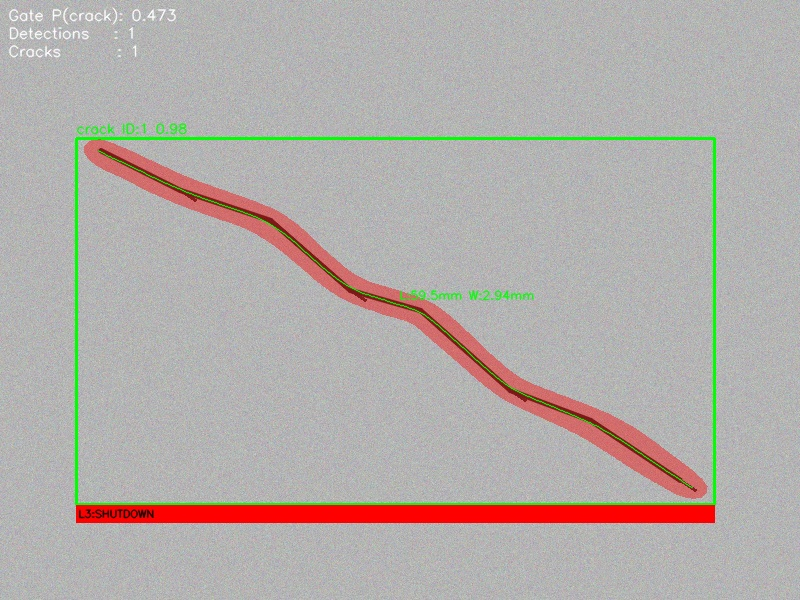
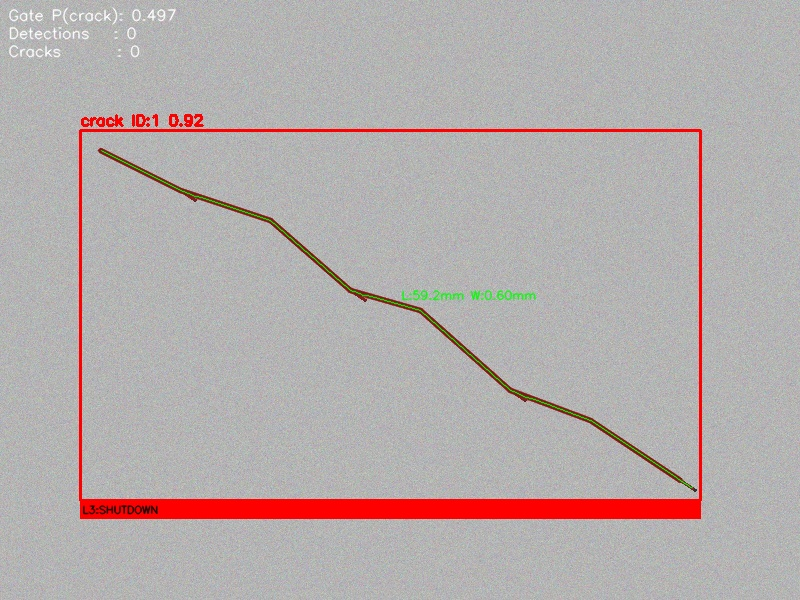
updated all code for pth file

Changed region(s): [[0.0625, 0.18, 0.9062, 0.9], [0.1562, 0.03, 0.1875, 0.09], [0.1875, 0.0, 0.2188, 0.03]]

diff --git a/main.py b/main.py
@@ -232,9 +232,9 @@ def main():
         print("\n--- Pipeline Execution Metadata ---")
         print(json.dumps(metadata, indent=2))
         
-        print("\n--- Severity Alerting Log (alerts.log) ---")
-        if os.path.exists("alerts.log"):
-            with open("alerts.log", "r") as f:
+        print(f"\n--- Severity Alerting Log ({pipeline.alerts_log}) ---")
+        if os.path.exists(pipeline.alerts_log):
+            with open(pipeline.alerts_log, "r") as f:
                 print(f.read())
             
 if __name__ == "__main__":

diff --git a/src/inference/pipeline.py b/src/inference/pipeline.py
@@ -133,7 +133,7 @@ class CrackDetectionPipeline:
         self.min_area_px = geom_cfg.get("min_area_px", 50)
         self.sample_interval = geom_cfg.get("sample_interval", 5)
         
-        self.alerts_log = alerts_log if alerts_log is not None else p_cfg.get("alerts_log", "alerts.log")
+        self.alerts_log = resolve_path(alerts_log if alerts_log is not None else p_cfg.get("alerts_log", "log/alerts.log"))
         self.save_snapshots = p_cfg.get("save_snapshots", True)
         self.alerted_track_ids = set()
         
@@ -304,6 +304,9 @@ class CrackDetectionPipeline:
         
         # Append log
         try:
+            log_dir = os.path.dirname(self.alerts_log)
+            if log_dir:
+                os.makedirs(log_dir, exist_ok=True)
             with open(self.alerts_log, "a") as f:
                 f.write(log_line)
         except Exception as e:

diff --git a/README.md b/README.md
@@ -124,6 +124,9 @@ crack_detection_oilgas/
 │   ├── json/                   # Event-triggered structured alert reports (.json)
 │   └── snapshot/               # Event-triggered full annotated snapshot images (.jpg)
 │
+├── log/
+│   └── alerts.log              # Appended event logs
+│
 ├── docs/                       # Technical reports and implementation details
 │
 ├── src/
@@ -160,11 +163,12 @@ All system behavior is controlled via `config/config.yaml`. No code changes need
 ```yaml
 pipeline:
   px_to_mm: 0.15
-  alerts_log: "alerts.log"
+  alerts_log: "log/alerts.log"
   fallback_to_heuristic: true
   save_snapshots: true
   alerts_json_dir: "alerts/json"
   alerts_snapshot_dir: "alerts/snapshot"
+  min_consecutive_frames: 4
 
 gate:
   checkpoint: null